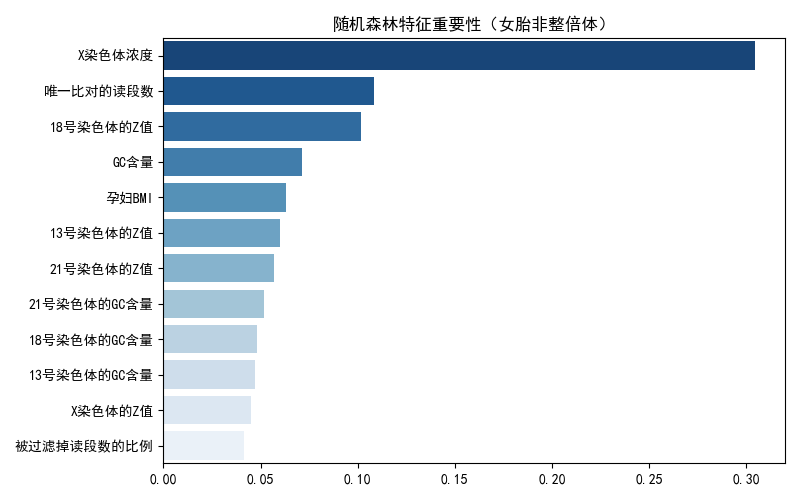
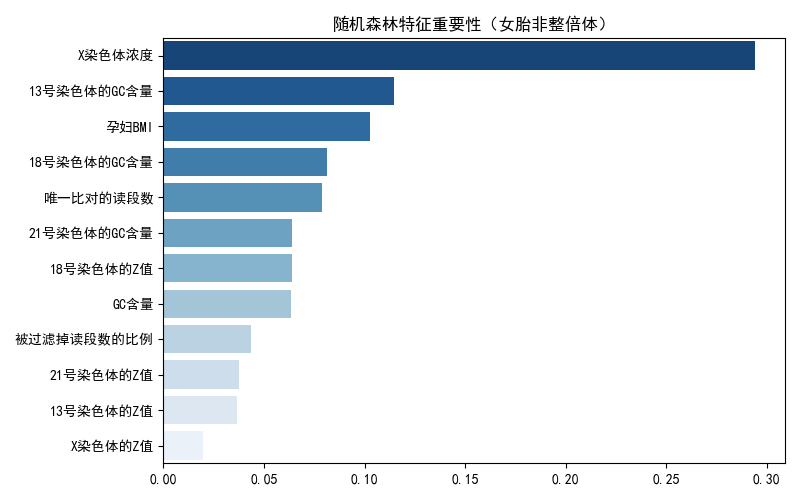
docs(CUMCM-2025): 生成模型比较分类报告和相关图表
- 新增模型比较分类报告 Markdown 文件
- 添加 Logistic Regression 和 Random Forest 模型的评估结果
- 生成并保存 ROC 曲线和 Precision-Recall 曲线图
- 更新随机森林特征重要性图

diff --git a/CUMCM-2025/C题/P4/模型比较分类报告.md b/CUMCM-2025/C题/P4/模型比较分类报告.md
@@ -1,0 +1,62 @@
+# 模型比较分类报告
+
+## 数据集信息
+
+- 数据文件: 附件\_女胎数据.csv
+- 样本数量: 147
+- 特征数量: 12
+- 异常样本比例: 8.16%
+
+## Logistic Regression
+
+### 分类报告
+
+```
+              precision    recall  f1-score   support
+
+      正常 (0)       0.97      0.84      0.90       135
+      异常 (1)       0.27      0.67      0.38        12
+
+    accuracy                           0.82       147
+   macro avg       0.62      0.75      0.64       147
+weighted avg       0.91      0.82      0.85       147
+
+```
+
+### 混淆矩阵
+
+|          | 预测正常 | 预测异常 |
+| -------- | -------- | -------- |
+| 实际正常 | 113 (TN) | 22 (FP)  |
+| 实际异常 | 4 (FN)   | 8 (TP)   |
+
+### ROC 曲线指标
+
+- AUC: 0.759
+
+## Random Forest
+
+### 分类报告
+
+```
+              precision    recall  f1-score   support
+
+      正常 (0)       0.93      0.96      0.95       135
+      异常 (1)       0.29      0.17      0.21        12
+
+    accuracy                           0.90       147
+   macro avg       0.61      0.56      0.58       147
+weighted avg       0.88      0.90      0.89       147
+
+```
+
+### 混淆矩阵
+
+|          | 预测正常 | 预测异常 |
+| -------- | -------- | -------- |
+| 实际正常 | 130 (TN) | 5 (FP)   |
+| 实际异常 | 10 (FN)  | 2 (TP)   |
+
+### ROC 曲线指标
+
+- AUC: 0.756
